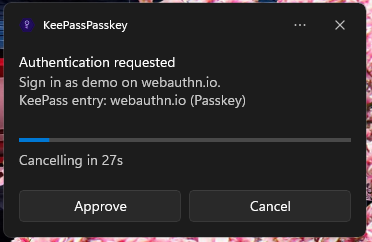
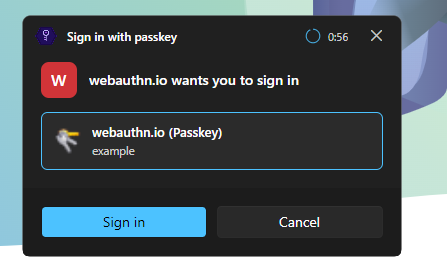
replace the toast screenshots with the prompt dialogs

diff --git a/docs/user-guide.md b/docs/user-guide.md
@@ -41,8 +41,7 @@ A KeePassPasskey dialog appears, headed with the website's address, for example 
 
 The dialog counts down in its title bar and cancels the request when it runs out (see [Approval timeout](#notifications--user-verification)).
 
-<!-- TODO: retake against the dialog before release; this still shows the old notification -->
-<img src="images/passkey-creation-step3.png" width="300" alt="KeePassPasskey dialog asking to save a passkey, with the database dropdown and the Save button">
+<img src="images/passkey-creation-step3.png" width="400" alt="KeePassPasskey dialog asking to save a passkey, with the database dropdown and the Save button">
 
 **Step 4: Passkey saved in KeePass**
 
@@ -60,7 +59,7 @@ Every matching entry is listed, however many there are. Type in the search box t
 
 Each entry shows its KeePass icon, title and username. The entry you currently have selected in KeePass is listed first and marked with a dot; entries that already hold a passkey are marked with a key. Selecting an entry that already holds a passkey shows a warning, because saving replaces the passkey it already has.
 
-<!-- TODO: add a screenshot of the Add to existing view before release -->
+<img src="images/passkey-creation-add-existing.png" width="400" alt="KeePassPasskey dialog on Add to existing, listing matching entries with the search box, the filter button and the replace warning">
 
 Matching is by website: an entry qualifies when it already holds a passkey for this site, or when its **URL** field points at the same site (the same domain or a subdomain). If you overwrite an entry that already had a passkey, the previous version is kept in that entry's **History** tab so you can restore it.
 
@@ -90,8 +89,7 @@ If you did not use autofill and have multiple passkeys for this site, Windows sh
 
 A KeePassPasskey dialog appears, headed with the website's address, for example **"github.com wants you to sign in"**, and showing the KeePass entry Windows picked with its icon, title, username and database. Click **Sign in** to confirm, or **Cancel** to decline.
 
-<!-- TODO: retake against the dialog before release; this still shows the old notification -->
-<img src="images/passkey-signin-approve.png" width="300" alt="KeePassPasskey dialog asking to sign in, showing the selected passkey and the Sign in button">
+<img src="images/passkey-signin-approve.png" width="400" alt="KeePassPasskey dialog asking to sign in, showing the selected passkey and the Sign in button">
 
 ### Login with a password and passkey as a second factor
 
